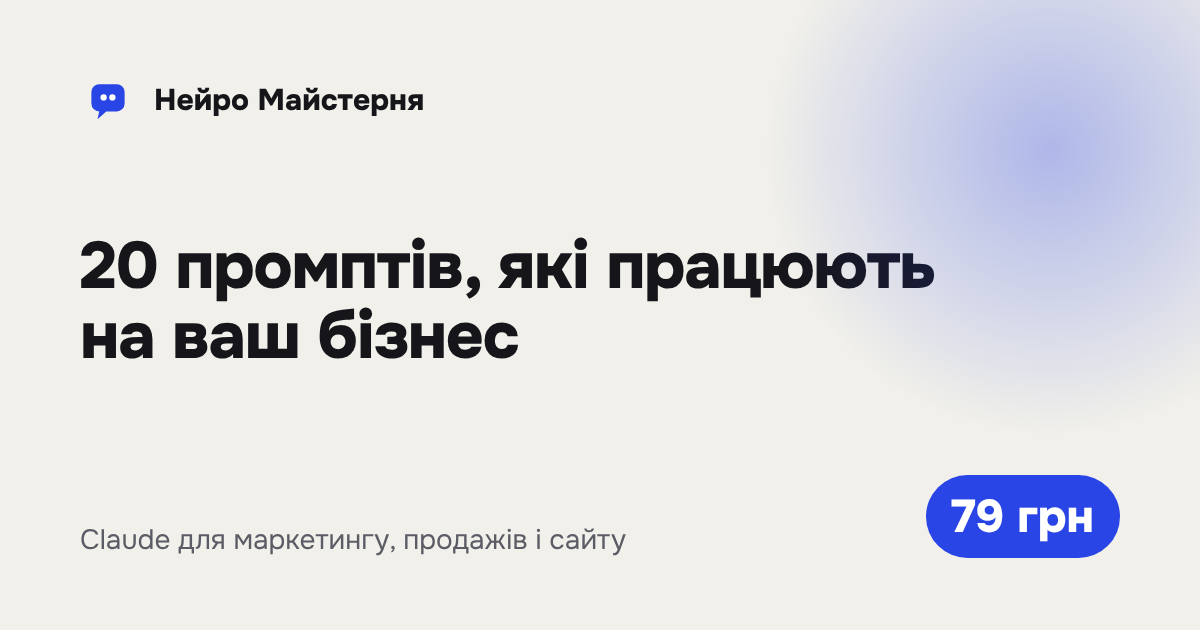
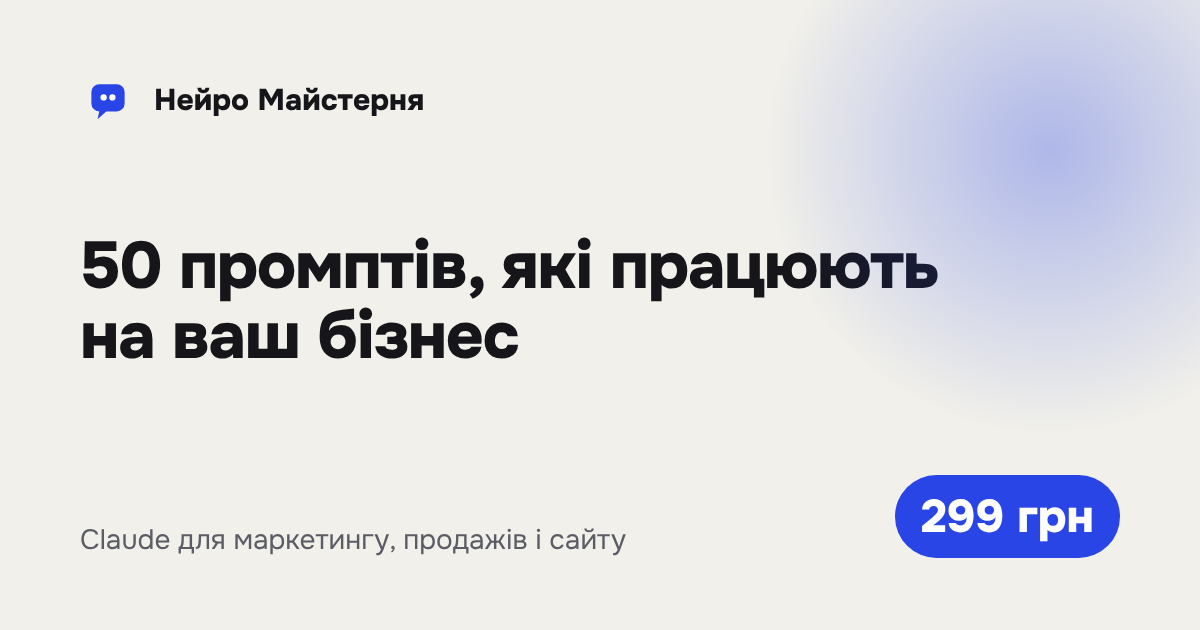
Один продукт за одну ціну
Замість кількох варіантів і доплат на сайті лишився повний пакет з однією
ціною. Оновлено ціни в розмітці, OG-картинку і README.

Changed region(s): [[0.0617, 0.3619, 0.8017, 0.4825], [0.74, 0.754, 0.8325, 0.9048]]

diff --git a/index.html b/index.html
@@ -3,8 +3,8 @@
 <head>
 <meta charset="utf-8">
 <meta name="viewport" content="width=device-width, initial-scale=1, viewport-fit=cover">
-<title>20 промптів Claude для бізнесу за 79 грн — Нейро Майстерня</title>
-<meta name="description" content="Готові промпти Claude для маркетингу, продажів, текстів для сайту і цін. «Старт» — 20 промптів за 79 грн, далі сайт за вечір і повний пакет.">
+<title>50 промптів Claude для бізнесу — Нейро Майстерня</title>
+<meta name="description" content="Готові промпти Claude для маркетингу, продажів, текстів для сайту і цін. Повний пакет: 50 промптів, 3 Claude-проєкти і гайд «Сайт за вечір» за 299 грн.">
 <link rel="canonical" href="https://neuro-maysternya.vercel.app/">
 <link rel="alternate" hreflang="uk" href="https://neuro-maysternya.vercel.app/">
 <link rel="alternate" hreflang="en" href="https://neuro-maysternya.vercel.app/#en">
@@ -13,8 +13,8 @@
 <meta property="og:locale" content="uk_UA">
 <meta property="og:locale:alternate" content="en_US">
 <meta property="og:site_name" content="Нейро Майстерня">
-<meta property="og:title" content="20 промптів, які працюють на ваш бізнес">
-<meta property="og:description" content="Копіюєте, замінюєте [дужки] на свої дані — і Claude пише пости, відповіді клієнтам і тексти для сайту. 79 грн.">
+<meta property="og:title" content="50 промптів, які працюють на ваш бізнес">
+<meta property="og:description" content="Копіюєте, замінюєте [дужки] на свої дані — і Claude пише пости, відповіді клієнтам і тексти для сайту. 299 грн.">
 <meta property="og:url" content="https://neuro-maysternya.vercel.app/">
 <meta property="og:image" content="https://neuro-maysternya.vercel.app/img/og.png">
 <meta property="og:image:width" content="1200">
@@ -31,14 +31,12 @@
   "@graph": [
     { "@type": "Organization", "@id": "https://neuro-maysternya.vercel.app/#org", "name": "Нейро Майстерня", "url": "https://neuro-maysternya.vercel.app/", "logo": "https://neuro-maysternya.vercel.app/img/favicon.svg" },
     { "@type": "WebSite", "name": "Нейро Майстерня", "url": "https://neuro-maysternya.vercel.app/", "inLanguage": ["uk", "en"] },
-    { "@type": "Product", "name": "Claude для бізнесу: старт — 20 промптів", "description": "PDF: 20 готових промптів у 6 категоріях і 5 правил хорошого промпту.", "brand": { "@id": "https://neuro-maysternya.vercel.app/#org" }, "image": "https://neuro-maysternya.vercel.app/img/og.png",
-      "offers": { "@type": "Offer", "price": "79", "priceCurrency": "UAH", "availability": "https://schema.org/PreOrder", "url": "https://neuro-maysternya.vercel.app/#checkout" } },
-    { "@type": "Product", "name": "Claude для бізнесу: повний пакет", "description": "50 промптів, 3 Claude-проєкти під нішу і гайд «Сайт-візитка за вечір».", "brand": { "@id": "https://neuro-maysternya.vercel.app/#org" },
-      "offers": { "@type": "Offer", "price": "299", "priceCurrency": "UAH", "availability": "https://schema.org/PreOrder" } },
+    { "@type": "Product", "name": "Claude для бізнесу: повний пакет", "description": "PDF: 50 промптів у 6 категоріях, 3 Claude-проєкти під нішу, гайд «Сайт-візитка за вечір» і 5 правил хорошого промпту.", "brand": { "@id": "https://neuro-maysternya.vercel.app/#org" }, "image": "https://neuro-maysternya.vercel.app/img/og.png",
+      "offers": { "@type": "Offer", "price": "299", "priceCurrency": "UAH", "availability": "https://schema.org/PreOrder", "url": "https://neuro-maysternya.vercel.app/#checkout" } },
     { "@type": "FAQPage", "mainEntity": [
       { "@type": "Question", "name": "Потрібна платна підписка Claude?", "acceptedAnswer": { "@type": "Answer", "text": "Ні. Усі промпти працюють і на безкоштовному плані. Платна підписка дає більше повідомлень на день." } },
       { "@type": "Question", "name": "Я ніколи не користувався нейромережами. Розберуся?", "acceptedAnswer": { "@type": "Answer", "text": "Так. Перша сторінка пояснює, як писати запити, а кожен промпт достатньо скопіювати і замінити дані в дужках." } },
-      { "@type": "Question", "name": "Чим «Старт» відрізняється від повного пакета?", "acceptedAnswer": { "@type": "Answer", "text": "«Старт» — 20 найпотрібніших промптів. Повний пакет — 50 промптів, 3 Claude-проєкти під нішу і гайд по сайту." } }
+      { "@type": "Question", "name": "Що таке Claude-проєкти?", "acceptedAnswer": { "@type": "Answer", "text": "Готові інструкції для кав'ярні, салону і магазину. Claude один раз дізнається про ваш бізнес і пам'ятає це в кожному чаті проєкту." } }
     ] }
   ]
 }
@@ -51,7 +49,7 @@
 <header class="site-header" id="top">
   <div class="wrap">
     <a class="logo" href="#top" aria-label="Нейро Майстерня — на початок">Нейро <span>Майстерня</span></a>
-    <nav aria-label="Розділи"><a href="#inside" data-i="navInside">Що всередині</a><a href="#ladder" data-i="navPrice">Ціни</a><a href="#faq" data-i="navFaq">Питання</a></nav>
+    <nav aria-label="Розділи"><a href="#inside" data-i="navInside">Що всередині</a><a href="#price" data-i="navPrice">Ціна</a><a href="#faq" data-i="navFaq">Питання</a></nav>
     <div class="h-right">
       <div class="lang" role="group" aria-label="Мова / Language"><button type="button" id="l-uk" aria-pressed="true">UA</button><button type="button" id="l-en" aria-pressed="false">EN</button></div>
       <a class="btn sm" href="#checkout" data-i="nav">Отримати</a>
@@ -64,9 +62,9 @@
     <div class="wrap hero-grid">
       <div class="cap">
         <div class="eyebrow" data-i="e1">Claude для малого бізнесу</div>
-        <h1 data-i="h1">20 промптів, які працюють на ваш бізнес</h1>
+        <h1 data-i="h1">50 промптів, які працюють на ваш бізнес</h1>
         <p><span data-i="lead1">Копіюєте, замінюєте</span> <span class="slotword" data-i="brackets">[дужки]</span> <span data-i="lead2">на свої дані — і Claude пише пости, відповіді клієнтам, тексти для сайту й рахує ціни.</span></p>
-        <div class="row"><a class="btn" href="#checkout" data-i="cta">Отримати за 79 грн</a><a class="btn ghost" href="#inside" data-i="cta2">Що всередині</a></div>
+        <div class="row"><a class="btn" href="#checkout" data-i="cta">Отримати за 299 грн</a><a class="btn ghost" href="#inside" data-i="cta2">Що всередині</a></div>
         <p class="note-sm" data-i="ctaNote">PDF одразу після оплати · працює на безкоштовному Claude</p>
       </div>
       <figure class="prompt-card" aria-label="Приклад промпту">
@@ -105,26 +103,37 @@
   <section class="block block-alt" id="inside">
     <div class="wrap">
       <div class="kicker" data-i="k0">Що всередині</div>
-      <h2 class="title" data-i="catsH">20 промптів «Старту» в 6 напрямках</h2>
+      <h2 class="title" data-i="catsH">50 промптів у 6 напрямках</h2>
       <div class="cats">
-        <div class="cat"><div class="n">04</div><h3 data-i="k1">Instagram і маркетинг</h3><p data-i="k1p">Контент-план, каруселі, гачки для Reels.</p></div>
-        <div class="cat"><div class="n">04</div><h3 data-i="k2">Продажі і клієнти</h3><p data-i="k2p">Відповідь на «дорого», відгуки, FAQ.</p></div>
-        <div class="cat"><div class="n">03</div><h3 data-i="k3">Тексти для сайту</h3><p data-i="k3p">Перший екран, «Чому ми», правки текстів.</p></div>
-        <div class="cat"><div class="n">03</div><h3 data-i="k4">Операції і таблиці</h3><p data-i="k4p">Чек-листи змін, формули Google Таблиць.</p></div>
-        <div class="cat"><div class="n">03</div><h3 data-i="k5">Гроші і ціни</h3><p data-i="k5p">Точка беззбитковості, собівартість.</p></div>
-        <div class="cat"><div class="n">03</div><h3 data-i="k6">Команда і продуктивність</h3><p data-i="k6p">Вакансії, адаптація, власний тиждень.</p></div>
+        <div class="cat"><div class="n">10</div><h3 data-i="k1">Instagram і маркетинг</h3><p data-i="k1p">Контент-план, каруселі, гачки для Reels.</p></div>
+        <div class="cat"><div class="n">10</div><h3 data-i="k2">Продажі і клієнти</h3><p data-i="k2p">Відповідь на «дорого», відгуки, FAQ.</p></div>
+        <div class="cat"><div class="n">08</div><h3 data-i="k3">Тексти для сайту</h3><p data-i="k3p">Перший екран, «Чому ми», правки текстів.</p></div>
+        <div class="cat"><div class="n">08</div><h3 data-i="k4">Операції і таблиці</h3><p data-i="k4p">Чек-листи змін, формули Google Таблиць.</p></div>
+        <div class="cat"><div class="n">06</div><h3 data-i="k5">Гроші і ціни</h3><p data-i="k5p">Точка беззбитковості, собівартість.</p></div>
+        <div class="cat"><div class="n">08</div><h3 data-i="k6">Команда і продуктивність</h3><p data-i="k6p">Вакансії, адаптація, власний тиждень.</p></div>
       </div>
     </div>
   </section>
 
-  <section class="block" id="ladder">
+  <section class="block" id="price">
     <div class="wrap">
-      <div class="kicker" data-i="ladK">Ціни</div>
-      <h2 class="title" data-i="ladH">Почніть з малого. Беріть більше, коли знадобиться</h2>
-      <div class="ladder">
-        <div class="tier main"><div class="step" data-i="t1s">Крок 1</div><h3 data-i="t1h">Старт</h3><p data-i="t1p">20 промптів і 5 правил хорошого запиту. PDF, 5 сторінок.</p><div class="p" data-price="start">79 грн</div></div>
-        <div class="tier"><div class="step" data-i="t2s">Додаток у кошику</div><h3 data-i="t2h">Сайт-візитка за вечір</h3><p data-i="t2p">Бриф, 4 готові промпти, команди для правок і безкоштовна публікація.</p><div class="p" data-price="site">+99 грн</div></div>
-        <div class="tier"><div class="step" data-i="t3s">Повний пакет</div><h3 data-i="t3h">Усе разом</h3><ul><li data-i="t3a">50 промптів у 6 категоріях</li><li data-i="t3b">3 Claude-проєкти: кав'ярня, салон, магазин</li><li data-i="t3c">Гайд «Сайт за вечір»</li></ul><div class="p" data-price="full">299 грн</div></div>
+      <div class="kicker" data-i="ladK">Ціна</div>
+      <h2 class="title" data-i="ladH">Усе в одному пакеті</h2>
+      <div class="tier main single">
+        <div>
+          <h3 data-i="t3h">Повний пакет</h3>
+          <ul>
+            <li data-i="t3a">50 промптів у 6 категоріях</li>
+            <li data-i="t3b">3 Claude-проєкти: кав'ярня, салон, магазин</li>
+            <li data-i="t3c">Гайд «Сайт-візитка за вечір»: бриф, промпти і безкоштовна публікація</li>
+            <li data-i="t3d">5 правил, після яких Claude відповідає як профі</li>
+          </ul>
+        </div>
+        <div class="buy">
+          <div class="p" data-price="full">299 грн</div>
+          <p data-i="t3n">Один платіж · PDF, 14 сторінок</p>
+          <a class="btn" href="#checkout" data-i="cta3">Отримати пакет</a>
+        </div>
       </div>
     </div>
   </section>
@@ -133,17 +142,11 @@
     <div class="wrap order">
       <div>
         <div class="kicker" data-i="coK">Оформлення</div>
-        <h2 class="title" data-i="coH">Отримати «Старт»</h2>
+        <h2 class="title" data-i="coH">Отримати повний пакет</h2>
         <p class="lead" data-i="coLead">Залиште контакт — надішлемо реквізити і PDF. Після запуску онлайн-оплати файл приходитиме автоматично.</p>
       </div>
       <form id="orderForm" novalidate>
-        <div class="line"><span data-i="lStart">«Старт»: 20 промптів + 5 правил</span><b data-price="start">79 грн</b></div>
-        <label class="bump" for="bump">
-          <input type="checkbox" id="bump" name="bump">
-          <div><b data-i="bumpH">Додати «Сайт-візитка за вечір»</b><span data-i="bumpP">Бриф, 4 промпти і публікація без хостингу. Сайт для вашого бізнесу за 2–3 години.</span></div>
-          <div class="bp" data-price="site">+99 грн</div>
-        </label>
-        <div class="line total"><span data-i="tot">Разом</span><b id="total">79 грн</b></div>
+        <div class="line total"><span data-i="lFull">Повний пакет: 50 промптів, 3 проєкти, гайд</span><b data-price="full">299 грн</b></div>
         <label for="name"><span data-i="fName">Ім'я</span><input id="name" name="name" autocomplete="name" required></label>
         <label for="contact"><span data-i="fContact">Telegram, телефон або email</span><input id="contact" name="contact" required placeholder="@username, +380… або email"></label>
         <button class="btn" type="submit" id="submit" data-i="submit">Отримати</button>
@@ -159,7 +162,7 @@
       <h2 class="title" data-i="faqH">Часті питання</h2>
       <details><summary data-i="q1">Потрібна платна підписка Claude?</summary><p data-i="a1">Ні. Усі промпти працюють і на безкоштовному плані. Платна підписка дає більше повідомлень на день.</p></details>
       <details><summary data-i="q2">Я ніколи не користувався нейромережами. Розберуся?</summary><p data-i="a2">Так. Перша сторінка пояснює, як писати запити, а кожен промпт достатньо скопіювати і замінити дані в дужках.</p></details>
-      <details><summary data-i="q3">Чим «Старт» відрізняється від повного пакета?</summary><p data-i="a3">«Старт» — 20 найпотрібніших промптів. Повний пакет — 50 промптів, 3 готові Claude-проєкти під нішу і гайд по сайту. Почати можна зі «Старту», а повний пакет докупити за різницю в ціні.</p></details>
+      <details><summary data-i="q3">Що таке Claude-проєкти?</summary><p data-i="a3">Готові інструкції для кав'ярні, салону і магазину. Claude один раз дізнається про ваш бізнес і пам'ятає це в кожному чаті проєкту.</p></details>
       <details><summary data-i="q4">Промпти працюють у ChatGPT чи Gemini?</summary><p data-i="a4">Здебільшого так: вони написані звичайною мовою. Але писали ми їх саме під Claude.</p></details>
     </div>
   </section>
@@ -168,7 +171,7 @@
 <main id="thanks" hidden>
   <div class="wrap thanks">
     <p class="demo-note" id="demoNote" hidden>Демо-режим: заявка нікуди не надсилалась.</p>
-    <div class="grid">
+    <div class="grid one">
       <div>
         <svg class="mascot2d" viewBox="0 0 200 200" role="img" aria-label="Дужка радіє">
           <ellipse cx="100" cy="186" rx="52" ry="8" fill="rgba(21,21,26,.12)"/>
@@ -179,14 +182,6 @@
         </svg>
         <h2 class="title" data-i="thH">Дякуємо! Заявку прийнято</h2>
         <p class="lead" data-i="thLead">Ми напишемо вам найближчим часом і надішлемо PDF.</p>
-      </div>
-      <div class="offer">
-        <div class="tag" data-i="ofTag">Одна пропозиція, поки ви тут</div>
-        <h3 id="ofH">Перейдіть на повний пакет за 220 грн</h3>
-        <p class="note" id="ofWhy">Це різниця між повним пакетом (299 грн) і тим, що ви вже взяли (79 грн).</p>
-        <ul><li data-i="t3a">50 промптів у 6 категоріях</li><li data-i="t3b">3 Claude-проєкти: кав'ярня, салон, магазин</li><li data-i="ofC">Claude один раз дізнається про ваш бізнес і пам'ятає це в кожному чаті</li></ul>
-        <div class="row"><button class="btn" type="button" id="ofYes" data-i="ofYes">Так, додати до замовлення</button><button class="btn line-btn" type="button" id="ofNo" data-i="ofNo">Ні, дякую</button></div>
-        <div class="status" id="ofStatus" role="status" aria-live="polite"></div>
       </div>
     </div>
   </div>

diff --git a/assets/js/main.js b/assets/js/main.js
@@ -1,54 +1,45 @@
 const $ = (s) => document.querySelector(s);
-const PRICES = { uk: { start: 79, site: 99, full: 299, fmt: (n) => n + ' грн' }, en: { start: 1.99, site: 2.49, full: 6.99, fmt: (n) => '$' + n.toFixed(2) } };
+const PRICES = { uk: { full: 299, fmt: (n) => n + ' грн' }, en: { full: 6.99, fmt: (n) => '$' + n.toFixed(2) } };
 const EN = {
-  navInside: 'What’s inside', navPrice: 'Pricing', navFaq: 'FAQ', nav: 'Get it',
-  e1: 'Claude for small business', h1: '20 prompts that put Claude to work for your business', lead1: 'Copy, replace the', brackets: '[brackets]',
-  lead2: 'with your details, and Claude writes posts, replies to customers, website copy and does your pricing maths.', cta: 'Get it for $1.99', cta2: 'What’s inside',
+  navInside: 'What’s inside', navPrice: 'Price', navFaq: 'FAQ', nav: 'Get it',
+  e1: 'Claude for small business', h1: '50 prompts that put Claude to work for your business', lead1: 'Copy, replace the', brackets: '[brackets]',
+  lead2: 'with your details, and Claude writes posts, replies to customers, website copy and does your pricing maths.', cta: 'Get it for $6.99', cta2: 'What’s inside',
   ctaNote: 'PDF right after payment · works on free Claude', e2: 'Step 1', h2a: 'Copy a ready-made prompt', p2: 'Every prompt already has a role, a task and an output format. You only replace what is in brackets.',
   e3: 'Step 2', h2b: 'Fill the brackets with your business', p3: '“A coffee shop next to a university”, “students” — and the prompt is yours. No setup.',
   e4: 'Step 3', h2c: 'Get a finished result', p4: 'A month of content as a table, a reply to a customer, website copy — in a minute instead of an evening.',
-  e5: '“Start”', h2d: '20 prompts across 6 areas', p5: 'Marketing, sales, website copy, spreadsheets, pricing and team. Plus 5 rules that make Claude answer like a pro.', cta3: 'Get it for $1.99',
   pcHead: 'Prompt · content plan', pc1: 'You are an SMM manager. Write a one-month content plan for', pcS1: '[a coffee shop next to a university]', pc2: 'Audience:', pcS2: '[students]',
   pc3: 'Format: a table with date, topic, format and copy.', pcAns: 'Claude', pcAnsT: 'Done: 30 posts, 8 Reels and 4 carousels as a table you can paste into Google Sheets.',
   flowK: 'How it works', flowH: 'Three steps to a finished result',
-  k0: 'What’s inside', catsH: '20 “Start” prompts across 6 areas', k1: 'Instagram & marketing', k1p: 'Content plans, carousels, Reels hooks.', k2: 'Sales & customers', k2p: 'Answering “too expensive”, reviews, FAQ.',
+  k0: 'What’s inside', catsH: '50 prompts across 6 areas', k1: 'Instagram & marketing', k1p: 'Content plans, carousels, Reels hooks.', k2: 'Sales & customers', k2p: 'Answering “too expensive”, reviews, FAQ.',
   k3: 'Website copy', k3p: 'Hero section, “Why us”, rewriting copy.', k4: 'Operations & spreadsheets', k4p: 'Shift checklists, Google Sheets formulas.', k5: 'Money & pricing', k5p: 'Break-even point, cost of goods.', k6: 'Team & productivity', k6p: 'Job posts, onboarding, planning your week.',
-  ladK: 'Pricing', ladH: 'Start small. Add more when you need it', t1s: 'Step 1', t1h: 'Start', t1p: '20 prompts and 5 rules of a good prompt. PDF, 5 pages.', t2s: 'Add-on at checkout', t2h: 'A website in one evening',
-  t2p: 'Brief, 4 ready prompts, editing commands and free hosting.', t3s: 'Full pack', t3h: 'Everything', t3a: '50 prompts in 6 categories', t3b: '3 Claude Projects: café, salon, online store', t3c: '“Website in one evening” guide',
-  coK: 'Checkout', coH: 'Get “Start”', coLead: 'Leave your contact and we will send the payment link and the PDF. Once online payment is live, the file will arrive automatically.',
-  lStart: '“Start”: 20 prompts + 5 rules', bumpH: 'Add “A website in one evening”', bumpP: 'Brief, 4 prompts and free publishing. A site for your business in 2–3 hours.', tot: 'Total', fName: 'Name', fContact: 'Email or Telegram', submit: 'Get it',
+  ladK: 'Price', ladH: 'Everything in one pack', t3h: 'Full pack', t3a: '50 prompts in 6 categories', t3b: '3 Claude Projects: café, salon, online store',
+  t3c: '“Website in one evening” guide: brief, prompts and free publishing', t3d: '5 rules that make Claude answer like a pro', t3n: 'One payment · PDF, 14 pages', cta3: 'Get the pack',
+  coK: 'Checkout', coH: 'Get the full pack', coLead: 'Leave your contact and we will send the payment link and the PDF. Once online payment is live, the file will arrive automatically.',
+  lFull: 'Full pack: 50 prompts, 3 projects, guide', fName: 'Name', fContact: 'Email or Telegram', submit: 'Get it',
   agree: 'By clicking the button you agree to the', privacyLink: 'privacy policy', faqK: 'Questions', faqH: 'FAQ',
   q1: 'Do I need a paid Claude plan?', a1: 'No. Every prompt works on the free plan. A paid plan gives you more messages per day.', q2: 'I have never used AI tools. Will I manage?', a2: 'Yes. The first page explains how to write prompts, and each prompt only needs copying and filling in the brackets.',
-  q3: 'How is “Start” different from the full pack?', a3: '“Start” is the 20 most useful prompts. The full pack has 50 prompts, 3 ready Claude Projects and the website guide. Start small and upgrade for the price difference.',
+  q3: 'What are Claude Projects?', a3: 'Ready-made instructions for a café, a salon and an online store. Claude learns about your business once and remembers it in every chat of the project.',
   q4: 'Do the prompts work in ChatGPT or Gemini?', a4: 'Mostly yes, they are written in plain language. But we wrote them for Claude.',
-  thH: 'Thank you! Your order is in', thLead: 'We will get in touch shortly and send your PDF.', ofTag: 'One offer while you are here', ofC: 'Claude learns about your business once and remembers it in every chat',
-  ofYes: 'Yes, add it to my order', ofNo: 'No, thanks', foot: '© 2026 Neuro Maysternya · independent guide, not affiliated with Anthropic. Claude is a trademark of Anthropic.', privacyFoot: 'Privacy policy',
+  thH: 'Thank you! Your order is in', thLead: 'We will get in touch shortly and send your PDF.',
+  foot: '© 2026 Neuro Maysternya · independent guide, not affiliated with Anthropic. Claude is a trademark of Anthropic.', privacyFoot: 'Privacy policy',
 };
 const MSG = {
-  uk: { need: "Вкажіть ім'я і контакт.", sending: 'Надсилаємо…', fail: 'Не вдалося надіслати заявку. Спробуйте ще раз за хвилину.', added: 'Додали повний пакет до вашої заявки.', noThanks: 'Добре! Чекайте на повідомлення від нас.',
-    ofH: (d) => `Перейдіть на повний пакет за ${d}`, ofWhy: (f, p) => `Це різниця між повним пакетом (${f}) і тим, що ви вже взяли (${p}).`, product: 'Старт', bump: 'Сайт за вечір', full: 'Повний пакет (доплата)', cta: 'Отримати за ', total: 'Разом: ' },
-  en: { need: 'Please enter your name and contact.', sending: 'Sending…', fail: 'Could not send your order. Please try again in a minute.', added: 'The full pack has been added to your order.', noThanks: 'All good! Watch for our message.',
-    ofH: (d) => `Upgrade to the full pack for ${d}`, ofWhy: (f, p) => `That is the difference between the full pack (${f}) and what you already chose (${p}).`, product: 'Start', bump: 'Website in one evening', full: 'Full pack (upgrade)', cta: 'Get it for ', total: 'Total: ' },
+  uk: { need: "Вкажіть ім'я і контакт.", sending: 'Надсилаємо…', fail: 'Не вдалося надіслати заявку. Спробуйте ще раз за хвилину.', product: 'Повний пакет', cta: 'Отримати за ' },
+  en: { need: 'Please enter your name and contact.', sending: 'Sending…', fail: 'Could not send your order. Please try again in a minute.', product: 'Full pack', cta: 'Get it for ' },
 };
 const UK = {};
 document.querySelectorAll('[data-i]').forEach((el) => { UK[el.dataset.i] = UK[el.dataset.i] || el.textContent; });
 
-let lang = 'uk', order = null;
+let lang = 'uk';
 try { if (location.hash === '#en' || localStorage.getItem('nm-lang') === 'en') lang = 'en'; } catch (e) { if (location.hash === '#en') lang = 'en'; }
 const DEMO = location.hash === '#demo';
 const money = (n) => PRICES[lang].fmt(Math.round(n * 100) / 100);
 
 function renderPrices() {
   const P = PRICES[lang];
-  document.querySelectorAll('[data-price]').forEach((el) => { const k = el.dataset.price; el.textContent = (k === 'site' ? '+' : '') + money(P[k]); });
-  ['cta'].forEach((k) => { const el = document.querySelector(`[data-i="${k}"]`); if (el) el.textContent = MSG[lang].cta + money(P.start); });
-  $('#total').textContent = money(P.start + ($('#bump').checked ? P.site : 0));
-  if (order) renderOffer();
-}
-function renderOffer() {
-  const P = PRICES[lang], paid = P.start + (order.bump ? P.site : 0);
-  $('#ofH').textContent = MSG[lang].ofH(money(Math.max(P.full - paid, 0)));
-  $('#ofWhy').textContent = MSG[lang].ofWhy(money(P.full), money(paid));
+  document.querySelectorAll('[data-price]').forEach((el) => { el.textContent = money(P[el.dataset.price]); });
+  const cta = document.querySelector('[data-i="cta"]');
+  if (cta) cta.textContent = MSG[lang].cta + money(P.full);
 }
 function applyLang() {
   document.documentElement.lang = lang;
@@ -67,7 +58,6 @@ function switchLang(l) {
 }
 $('#l-uk').addEventListener('click', () => switchLang('uk'));
 $('#l-en').addEventListener('click', () => switchLang('en'));
-$('#bump').addEventListener('change', renderPrices);
 applyLang();
 
 const hero = document.getElementById('hero');
@@ -84,26 +74,14 @@ async function send(payload) {
 }
 $('#orderForm').addEventListener('submit', async (e) => {
   e.preventDefault();
-  const st = $('#status'), name = $('#name').value.trim(), contact = $('#contact').value.trim(), bump = $('#bump').checked, P = PRICES[lang];
+  const st = $('#status'), name = $('#name').value.trim(), contact = $('#contact').value.trim(), P = PRICES[lang];
   if (!name || !contact) { st.className = 'status err'; st.textContent = MSG[lang].need; return; }
   st.className = 'status'; st.textContent = MSG[lang].sending; $('#submit').disabled = true;
-  const items = [MSG[lang].product + ' ' + money(P.start)].concat(bump ? [MSG[lang].bump + ' ' + money(P.site)] : []);
   try {
-    await send({ site: `Нейро Майстерня (${lang.toUpperCase()})`, name, contact, product: items.join(' + '), comment: MSG[lang].total + money(P.start + (bump ? P.site : 0)) });
-    order = { name, contact, bump };
-    renderOffer();
+    await send({ site: `Нейро Майстерня (${lang.toUpperCase()})`, name, contact, product: MSG[lang].product + ' ' + money(P.full) });
     $('#landing').hidden = true; $('#thanks').hidden = false; $('#demoNote').hidden = !DEMO;
     scrollTo(0, 0); onScroll();
   } catch {
     st.className = 'status err'; st.textContent = MSG[lang].fail;
   } finally { $('#submit').disabled = false; }
 });
-$('#ofYes').addEventListener('click', async () => {
-  const st = $('#ofStatus'), P = PRICES[lang], diff = Math.max(P.full - P.start - (order.bump ? P.site : 0), 0);
-  st.className = 'status'; st.textContent = MSG[lang].sending;
-  try {
-    await send({ site: `Нейро Майстерня (${lang.toUpperCase()})`, name: order.name, contact: order.contact, product: MSG[lang].full + ' ' + money(diff) });
-    st.className = 'status ok'; st.textContent = MSG[lang].added; $('#ofYes').disabled = true; $('#ofNo').disabled = true;
-  } catch { st.className = 'status err'; st.textContent = MSG[lang].fail; }
-});
-$('#ofNo').addEventListener('click', () => { const st = $('#ofStatus'); st.className = 'status ok'; st.textContent = MSG[lang].noThanks; $('#ofYes').disabled = true; $('#ofNo').disabled = true; });

diff --git a/assets/css/site.css b/assets/css/site.css
@@ -1,6 +1,6 @@
 /* Нейро Майстерня — working prompt sheet.
    Layout: a light static hero with a sample prompt, then a steps block,
-   then a transparent price ladder, checkout with one add-on, thank-you view with one upgrade. */
+   then one full-pack price card, checkout and a thank-you view. */
 @font-face { font-family: 'Onest'; font-weight: 400; font-display: swap; src: url('../../fonts/onest-cyrillic-400-normal.woff2') format('woff2'); unicode-range: U+0400-045F, U+0490-0491, U+04B0-04B1, U+2116; }
 @font-face { font-family: 'Onest'; font-weight: 400; font-display: swap; src: url('../../fonts/onest-latin-400-normal.woff2') format('woff2'); unicode-range: U+0000-00FF, U+2000-206F, U+20AC, U+2212, U+2192; }
 @font-face { font-family: 'Onest'; font-weight: 500; font-display: swap; src: url('../../fonts/onest-cyrillic-500-normal.woff2') format('woff2'); unicode-range: U+0400-045F, U+0490-0491, U+04B0-04B1, U+2116; }
@@ -152,7 +152,6 @@ footer a { text-decoration: none; } footer a:hover { text-decoration: underline;
 .cat .n { font-family: var(--mono); font-size: 38px; font-weight: 600; color: var(--slot); line-height: 1; }
 .cat h3 { font-size: 20px; margin: 12px 0 6px; }
 .cat p { margin: 0; color: var(--muted); font-size: 15.5px; }
-.ladder { display: grid; grid-template-columns: repeat(3, 1fr); gap: 18px; margin-top: 44px; }
 .tier { background: var(--paper); border: 1px solid var(--line); border-radius: 22px; padding: 26px; display: flex; flex-direction: column; gap: 10px; min-width: 0; }
 .tier.main { border: 2px solid var(--slot); background: var(--sheet); box-shadow: 0 30px 60px -40px rgba(41,69,230,.45); }
 .tier .step { font-family: var(--mono); font-size: 12.5px; color: var(--slot); font-weight: 600; text-transform: uppercase; letter-spacing: .08em; }
@@ -162,26 +161,15 @@ footer a { text-decoration: none; } footer a:hover { text-decoration: underline;
 .tier .p { margin-top: auto; padding-top: 14px; font-size: 32px; font-weight: 800; font-variant-numeric: tabular-nums; letter-spacing: -.02em; }
 .line { display: flex; justify-content: space-between; gap: 12px; font-variant-numeric: tabular-nums; }
 .line b { white-space: nowrap; }
-.bump { border: 2px dashed var(--slot); background: var(--slot-bg); border-radius: 16px; padding: 14px 16px; display: grid; grid-template-columns: auto 1fr auto; gap: 12px; align-items: start; cursor: pointer; font-weight: 400; }
-.bump input { width: 22px; height: 22px; margin-top: 2px; accent-color: var(--slot); padding: 0; }
-.bump b { display: block; color: var(--ink); }
-.bump span { color: var(--muted); font-size: 14.5px; }
-.bump .bp { font-weight: 800; color: var(--slot); white-space: nowrap; }
 .total { border-top: 2px solid var(--ink); padding-top: 12px; font-size: 21px; font-weight: 800; }
 .thanks { padding-block: 140px 100px; }
 .thanks .grid { display: grid; grid-template-columns: 1fr 1.1fr; gap: 48px; align-items: start; }
 .thanks .grid > * { min-width: 0; }
-.offer { background: var(--sheet); border: 2px solid var(--slot); border-radius: 22px; padding: 28px; display: grid; gap: 14px; }
-.offer .tag { font-family: var(--mono); font-size: 12.5px; color: var(--slot); font-weight: 600; text-transform: uppercase; letter-spacing: .08em; }
-.offer h3 { font-size: 26px; margin: 0; letter-spacing: -.02em; }
-.offer ul { margin: 0; padding-left: 18px; color: var(--muted); }
-.offer .row { display: flex; gap: 10px; flex-wrap: wrap; }
-.btn.line-btn { background: transparent; color: var(--ink); border: 1.5px solid var(--line); box-shadow: none; }
 .demo-note { font-size: 13.5px; color: var(--muted); border: 1px dashed var(--line); border-radius: 10px; padding: 8px 12px; margin: 0 0 20px; }
 .mascot2d { width: 140px; display: block; }
 .mascot2d .arm { fill: none; stroke: var(--ink); stroke-width: 8; stroke-linecap: round; stroke-linejoin: round; }
 @media (max-width: 900px) {
-  .cats { grid-template-columns: 1fr 1fr; } .ladder { grid-template-columns: 1fr; }
+  .cats { grid-template-columns: 1fr 1fr; }
   .thanks .grid { grid-template-columns: 1fr; }
   .lang button { padding: 7px 9px; }
   .site-header .btn.sm { display: none; }
@@ -218,3 +206,11 @@ footer a { text-decoration: none; } footer a:hover { text-decoration: underline;
 .prompt-answer { margin-top: 16px; padding-top: 14px; border-top: 1px dashed var(--night-line); display: grid; gap: 4px; font-family: var(--body); font-size: 15.5px; color: var(--night-muted); }
 .prompt-answer b { color: var(--slot); font-family: var(--mono); font-size: 12.5px; letter-spacing: .08em; text-transform: uppercase; }
 @media (max-width: 900px) { .prompt-card { justify-self: stretch; max-width: none; } }
+.tier.single { display: grid; grid-template-columns: minmax(0, 1fr) auto; gap: 32px; align-items: end; margin-top: 44px; padding: 32px; }
+.tier.single h3 { font-size: 26px; }
+.tier.single ul { font-size: 17px; gap: 8px; margin-top: 14px; }
+.tier.single .buy { display: grid; gap: 10px; justify-items: start; min-width: 220px; }
+.tier.single .p { padding-top: 0; font-size: 46px; line-height: 1; }
+.tier.single .buy p { margin: 0; color: var(--muted); font-size: 14.5px; }
+.thanks .grid.one { grid-template-columns: 1fr; max-width: 640px; }
+@media (max-width: 900px) { .tier.single { grid-template-columns: 1fr; padding: 24px; } }

diff --git a/README.md b/README.md
@@ -1,10 +1,10 @@
 # Нейро Майстерня
 
-Лендинг-воронка промптів Claude для малого бізнесу: «Старт» 79 грн → «Сайт за вечір» +99 грн у кошику → повний пакет за різницю на сторінці подяки. Українська та англійська.
+Лендинг промптів Claude для малого бізнесу. Один продукт — повний пакет: 50 промптів, 3 Claude-проєкти і гайд «Сайт за вечір» за 299 грн ($6.99 в англійській версії).
 
-Статичний сайт без збірки: HTML + CSS + JS-модулі, Three.js лежить локально у `vendor/`, шрифти — у `fonts/`. Заявки з форми йдуть у Telegram через серверну функцію Vercel `api/order.js`.
+Статичний сайт без збірки: HTML + CSS + JS-модулі, шрифти — у `fonts/`. Заявки з форми йдуть у Telegram через серверну функцію Vercel `api/order.js`.
 
-**Перший екран.** Статичний: заголовок і приклад промпту з [дужками]. Під ним — три кроки і що входить у «Старт». Без відео й анімацій, тож сторінка легка і швидко відкривається на телефоні.
+**Перший екран.** Статичний: заголовок і приклад промпту з [дужками]. Під ним — три кроки, що входить у пакет, і одна ціна. Без відео й анімацій, тож сторінка легка і швидко відкривається на телефоні.
 
 ## Деплой на Vercel
 
@@ -19,7 +19,7 @@
 - `title`, `description`, canonical, Open Graph і Twitter-картка (`img/og.png`, 1200×630).
 - JSON-LD: Organization, WebSite, Product з Offer (`PreOrder`), FAQPage.
 - `robots.txt`, `sitemap.xml`, `site.webmanifest`, favicon SVG.
-- Шрифти й Three.js віддаються з власного домену з довгим кешем (`vercel.json`).
+- Шрифти віддаються з власного домену з довгим кешем (`vercel.json`).
 
 **Якщо підключаєте свій домен** — замініть `https://neuro-maysternya.vercel.app` на нього в `index.html`, `privacy.html`, `robots.txt` і `sitemap.xml`.
 
